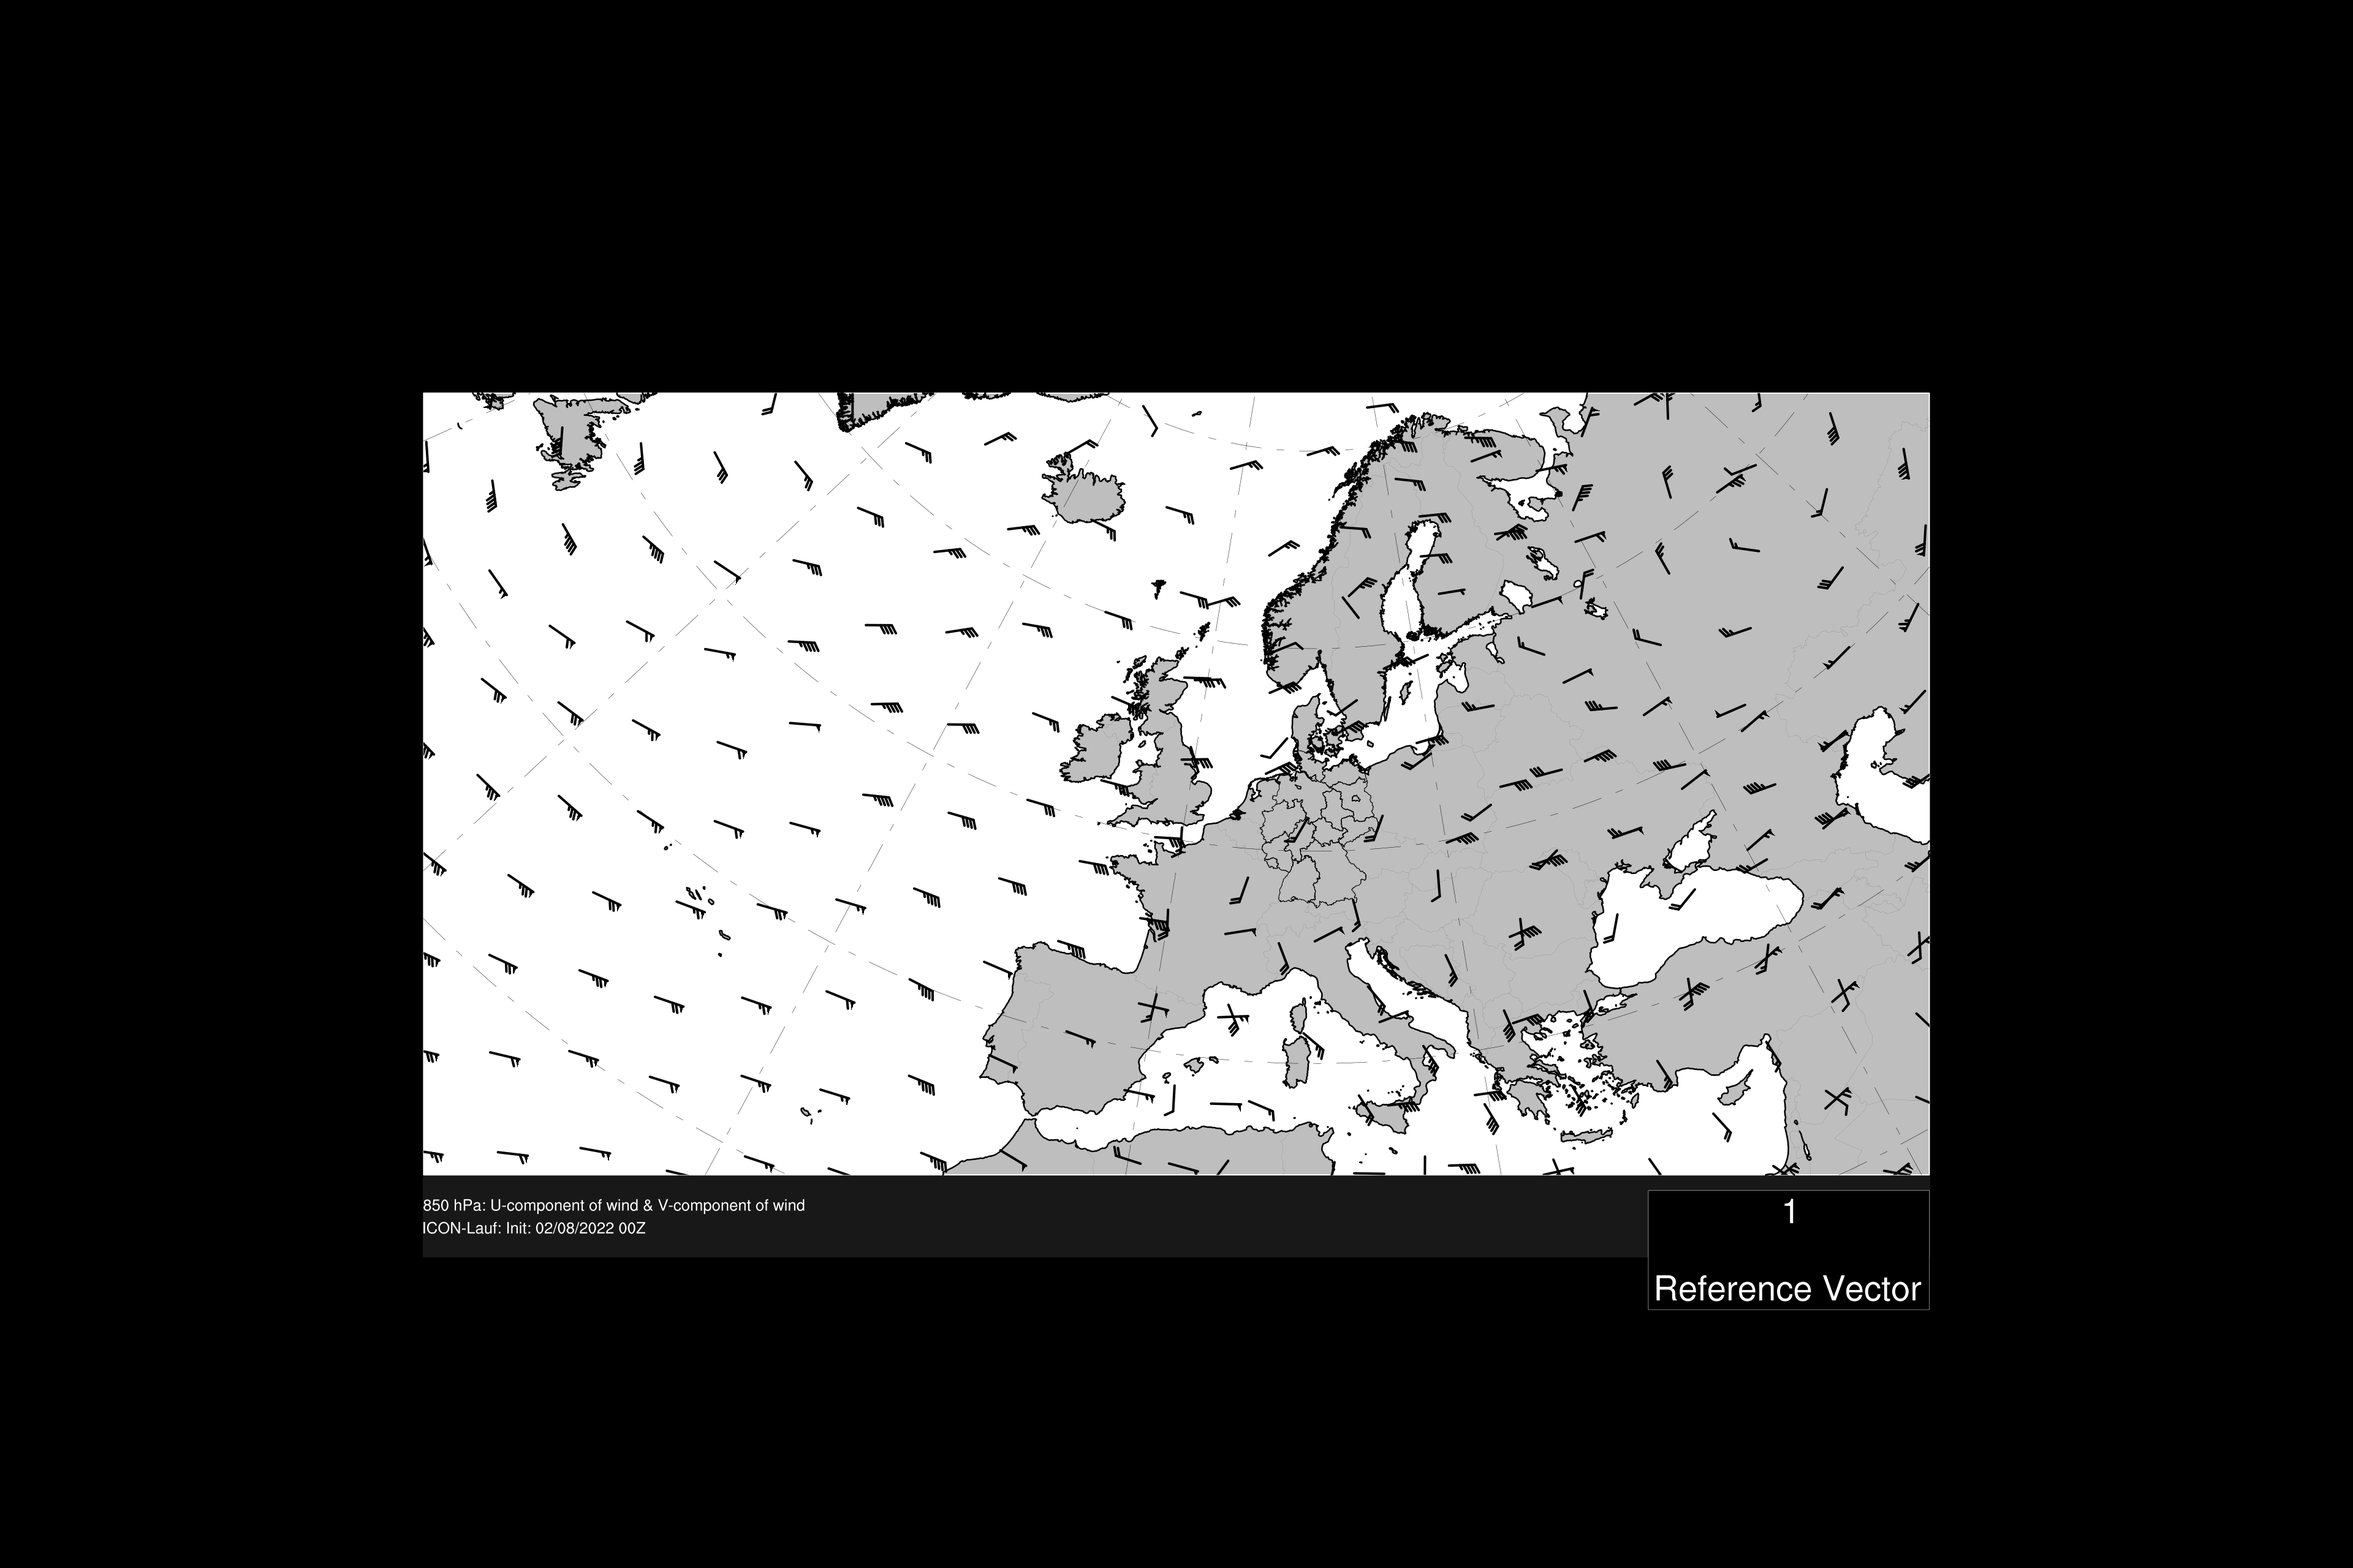
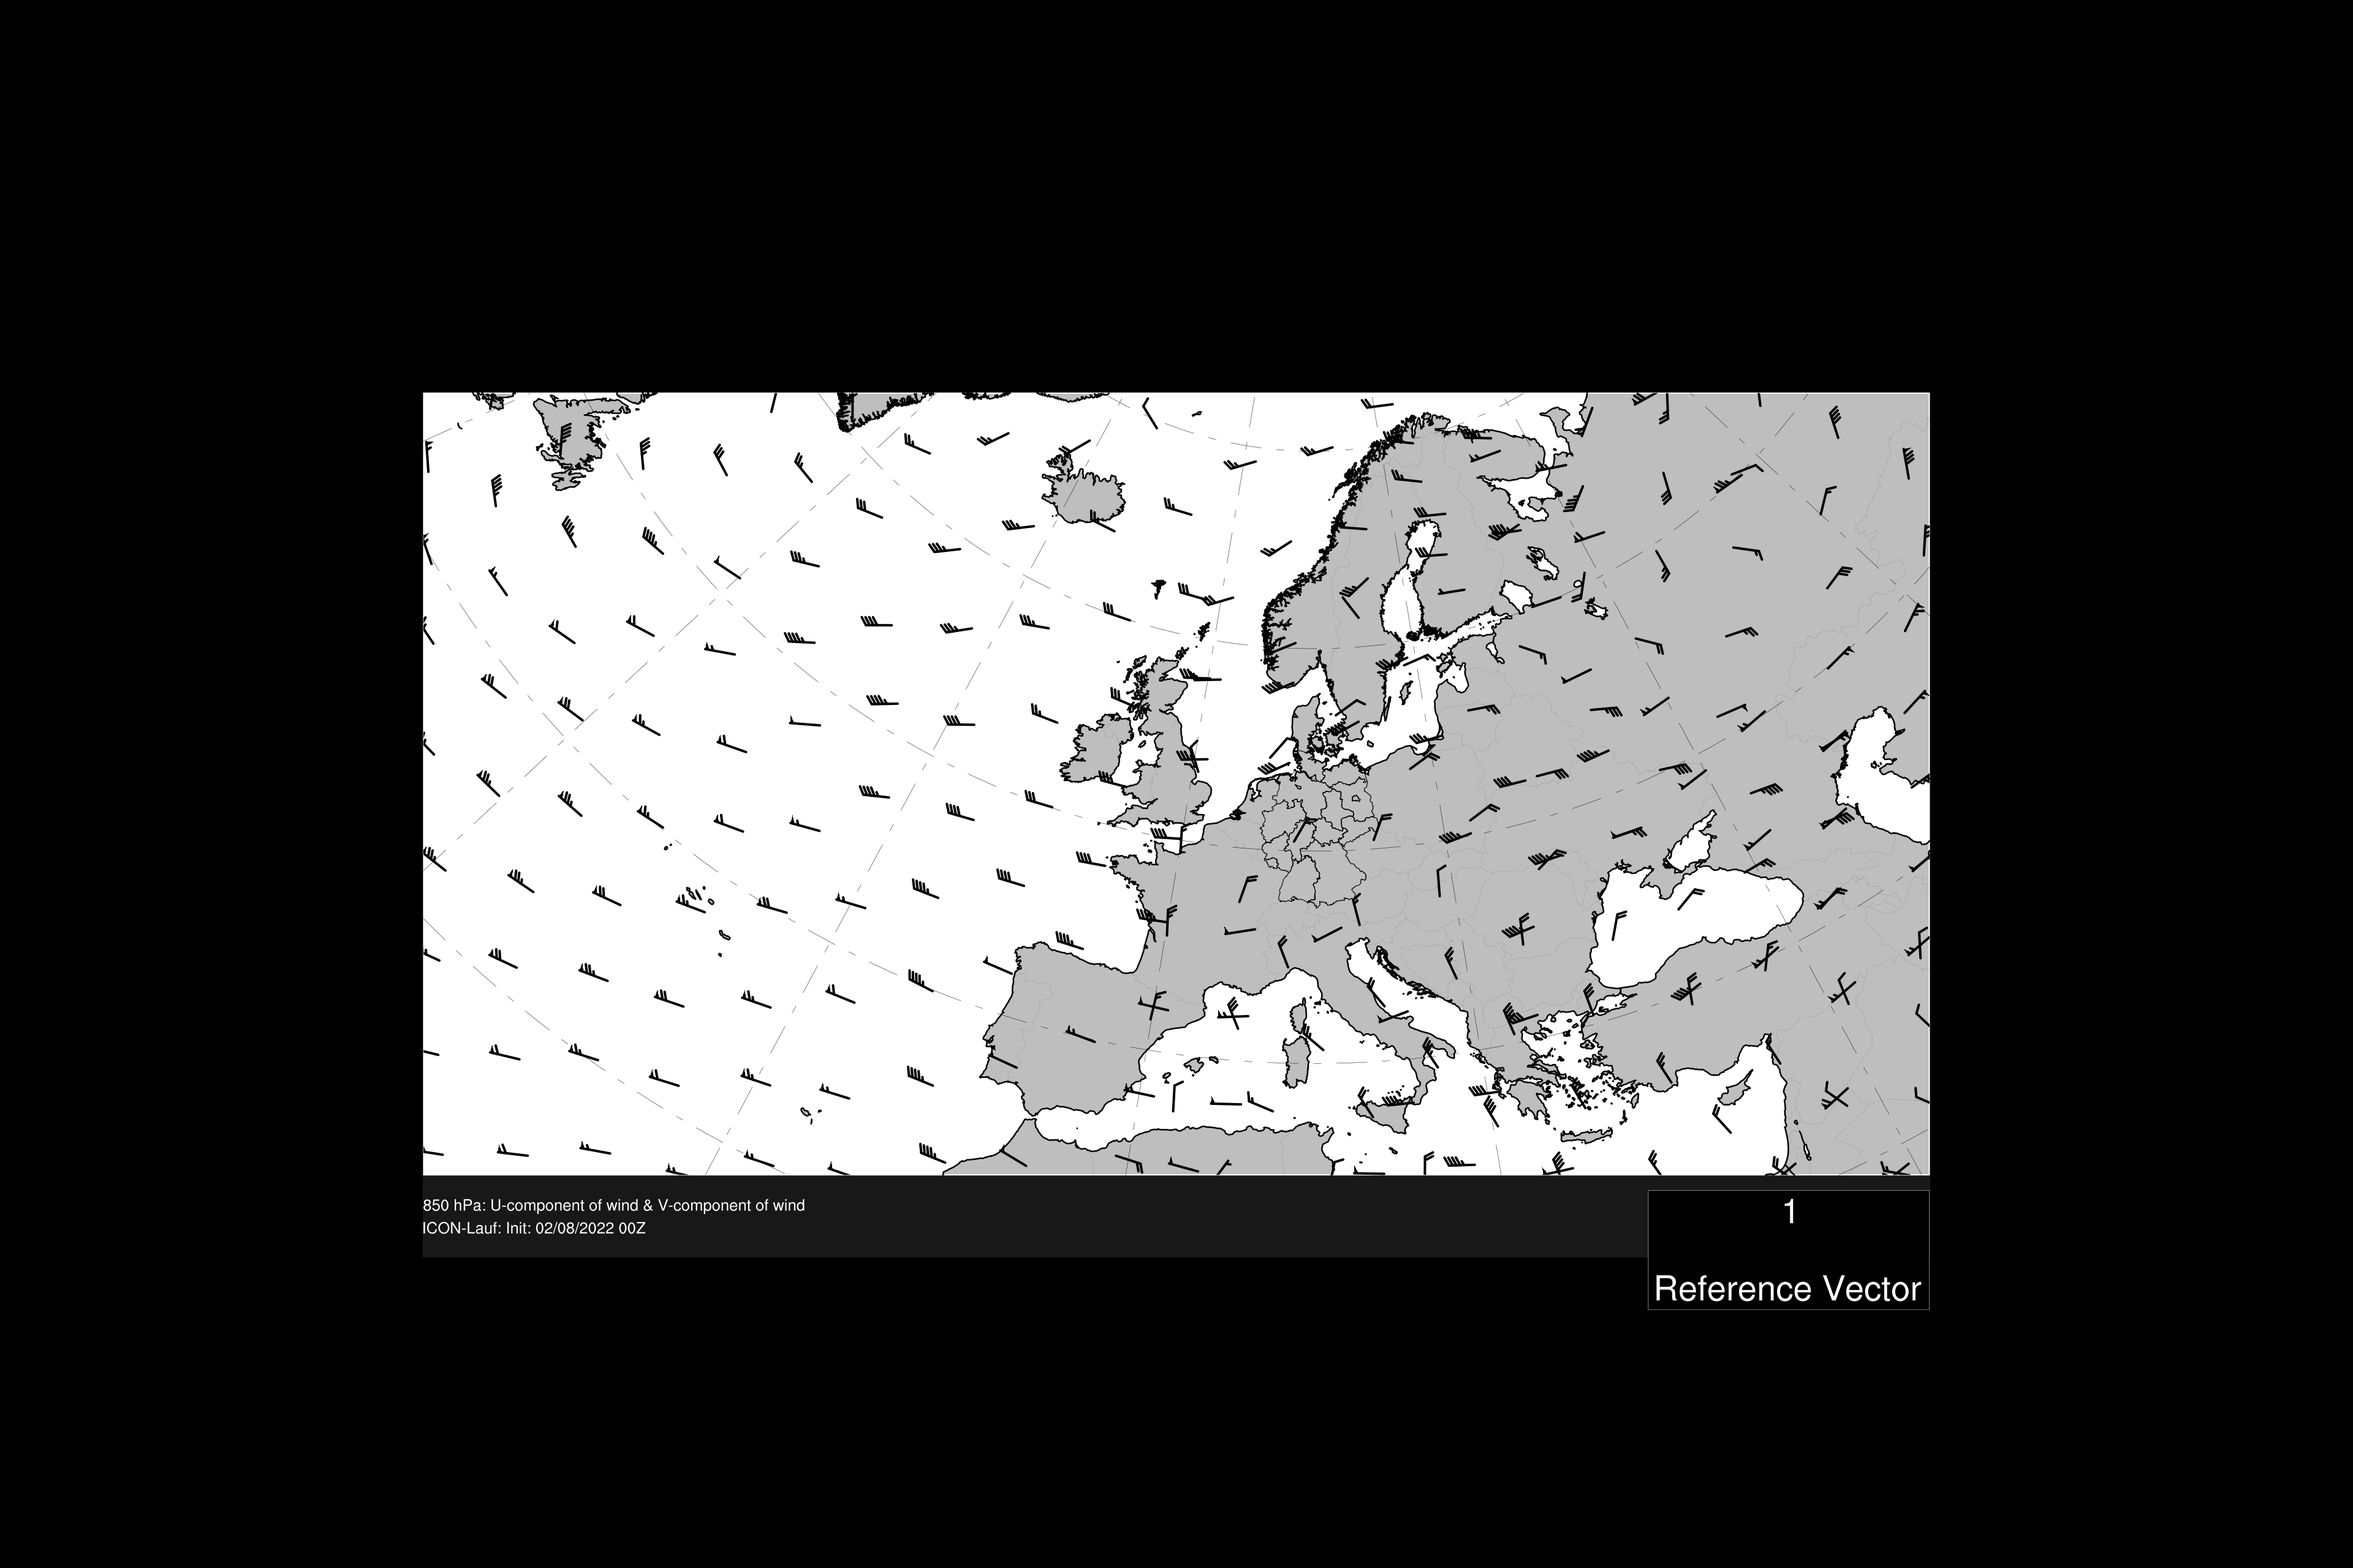
wind now has rigth direction

diff --git a/wind_300.py b/wind_300.py
@@ -53,7 +53,7 @@ for i in f1.variables: # main features of the variables
 
 lon1 = f1.variables['lon_0'][:] - 360
 lat1 = f1.variables['lat_0'][:]
-u = f1.variables['UGRD_P0_L100_GLL0'][4,:,:]#*0.5
+u = f1.variables['UGRD_P0_L100_GLL0'][4,:,:]*-1
 
 dir         = os.path.join(dir_origin) #path of model output
 fn2          = dir + '/database/input/icon/2022/8/2/00/v/300/outfile_merged_2022080200_000_004_300_V.grib2' #path name of model output
@@ -65,7 +65,7 @@ for i in f2.variables: # main features of the variables
 
 lon2 = f2.variables['lon_0'][:] - 360
 lat2 = f2.variables['lat_0'][:]
-v = f2.variables['VGRD_P0_L100_GLL0'][4,:,:]#*0.5
+v = f2.variables['VGRD_P0_L100_GLL0'][4,:,:]*-1
 
 
 '''fatal:NclGRIB2: Deleting reference to parameter; unable to decode grid template 3.101'''
